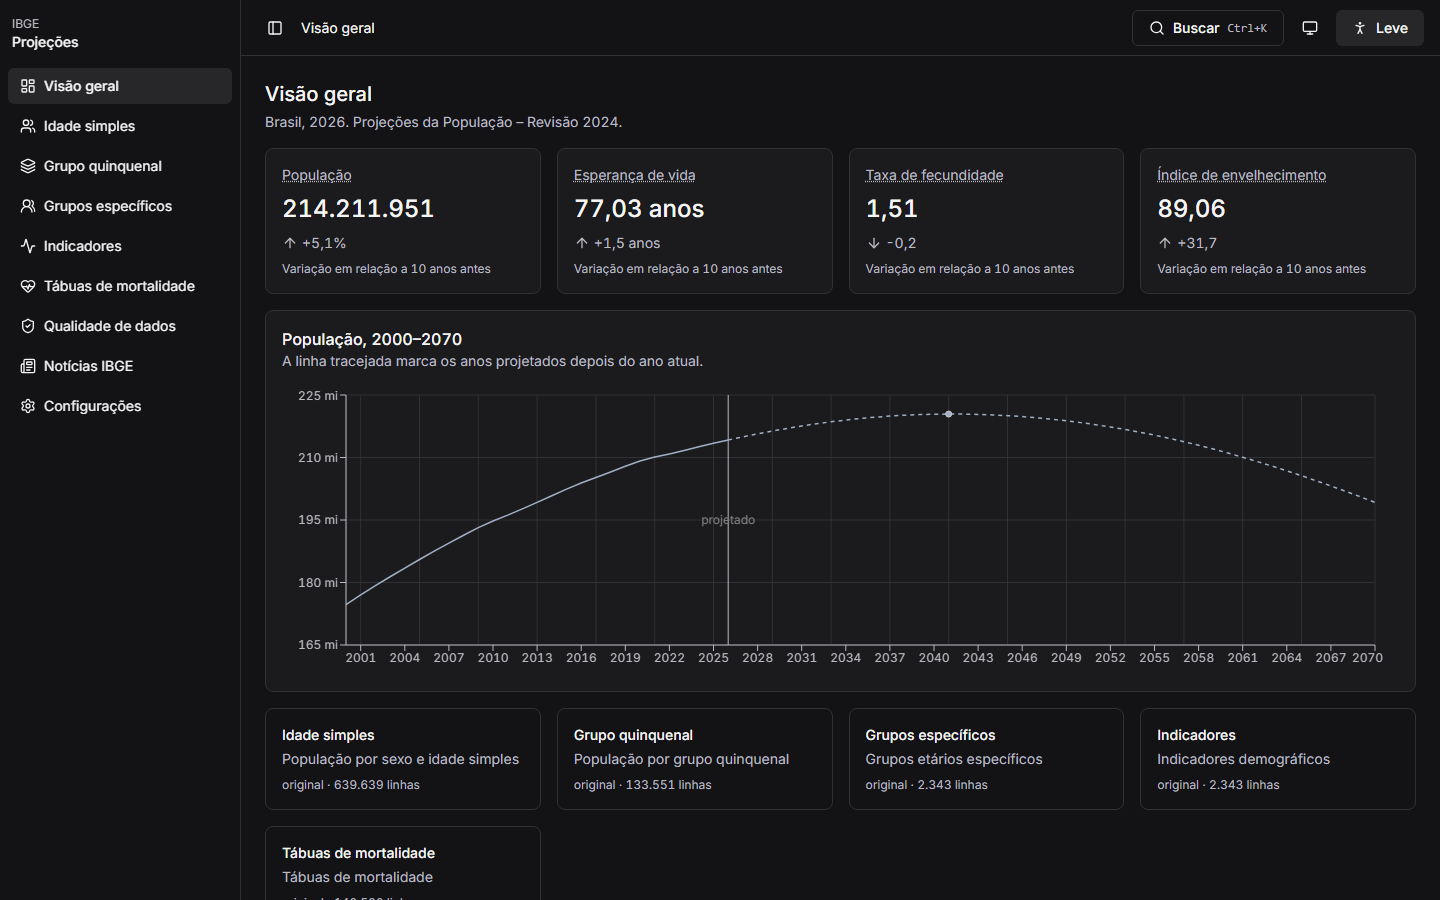
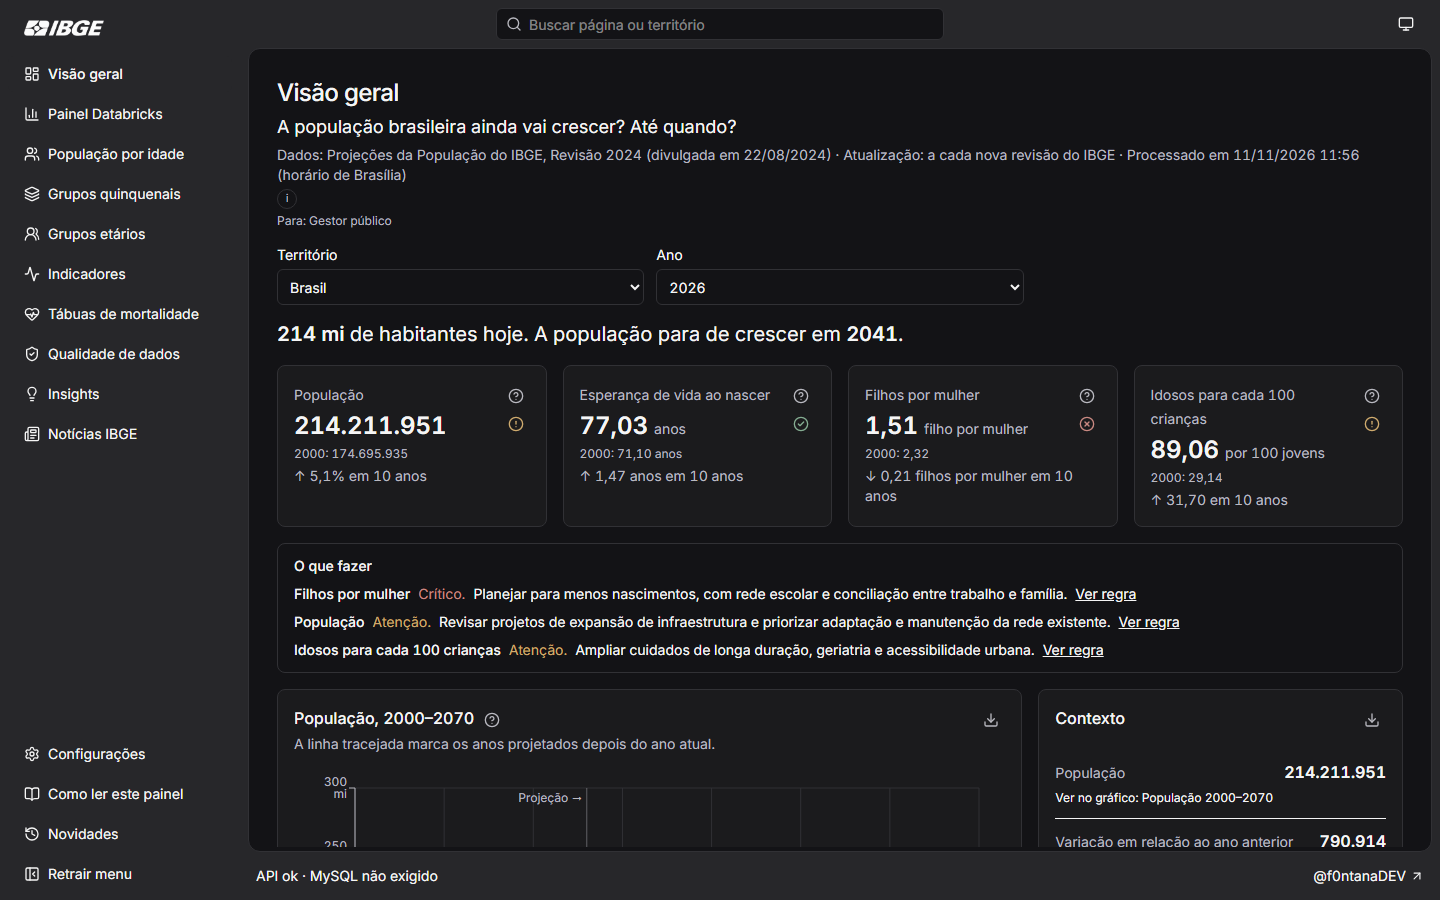
Commit final

diff --git a/apps/web/vite.config.js b/apps/web/vite.config.js
@@ -1,0 +1,24 @@
+import tailwindcss from "@tailwindcss/vite";
+import react from "@vitejs/plugin-react";
+import { resolve } from "node:path";
+import { defineConfig } from "vitest/config";
+const root = import.meta.dirname;
+export default defineConfig({
+    plugins: [tailwindcss(), react()],
+    resolve: {
+        alias: {
+            "@": resolve(root, "src"),
+            "@ibge/shared": resolve(root, "../../packages/shared/src/index.ts"),
+        },
+    },
+    server: {
+        port: 5173,
+        proxy: {
+            "/api": { target: "http://127.0.0.1:8000", changeOrigin: true },
+        },
+    },
+    test: {
+        environment: "jsdom",
+        setupFiles: "./src/test/setup.ts",
+    },
+});

diff --git a/packages/shared/src/index.js b/packages/shared/src/index.js
@@ -1,0 +1,4 @@
+import createClient from "openapi-fetch";
+export function createApiClient(baseUrl = "") {
+    return createClient({ baseUrl });
+}

diff --git a/packages/shared/src/api-types.js b/packages/shared/src/api-types.js
@@ -1,0 +1,5 @@
+/**
+ * This file was auto-generated by openapi-typescript.
+ * Do not make direct changes to the file.
+ */
+export {};

diff --git a/README.md b/README.md
@@ -1,7 +1,7 @@
 # Dashboard IBGE
 
-Painel das Projeções da População (revisão 2024): API FastAPI, frontend React e pacote compartilhado.
-AL: https://ibge-eight.vercel.app/
+Painel das Projeções da População (revisão 2024): API FastAPI, frontend React e pacote compartilhado.  
+AL: [https://dash.clevo.com.br](https://ibge-eight.vercel.app/)
 
 ```bash
 docker compose up --build
@@ -13,15 +13,7 @@ O site fica em `http://localhost:8082` (nginx), a API em `http://localhost:8001`
 
 ![Visão geral](docs/screenshots/visao-geral.png)
 
-![Idade simples](docs/screenshots/idade-simples.png)
 
-![Indicadores](docs/screenshots/indicadores.png)
-
-![Qualidade](docs/screenshots/qualidade.png)
-
-![Notícias](docs/screenshots/noticias.png)
-
-![Visão geral no celular](docs/screenshots/visao-geral-375.png)
 
 ## Débitos
 
